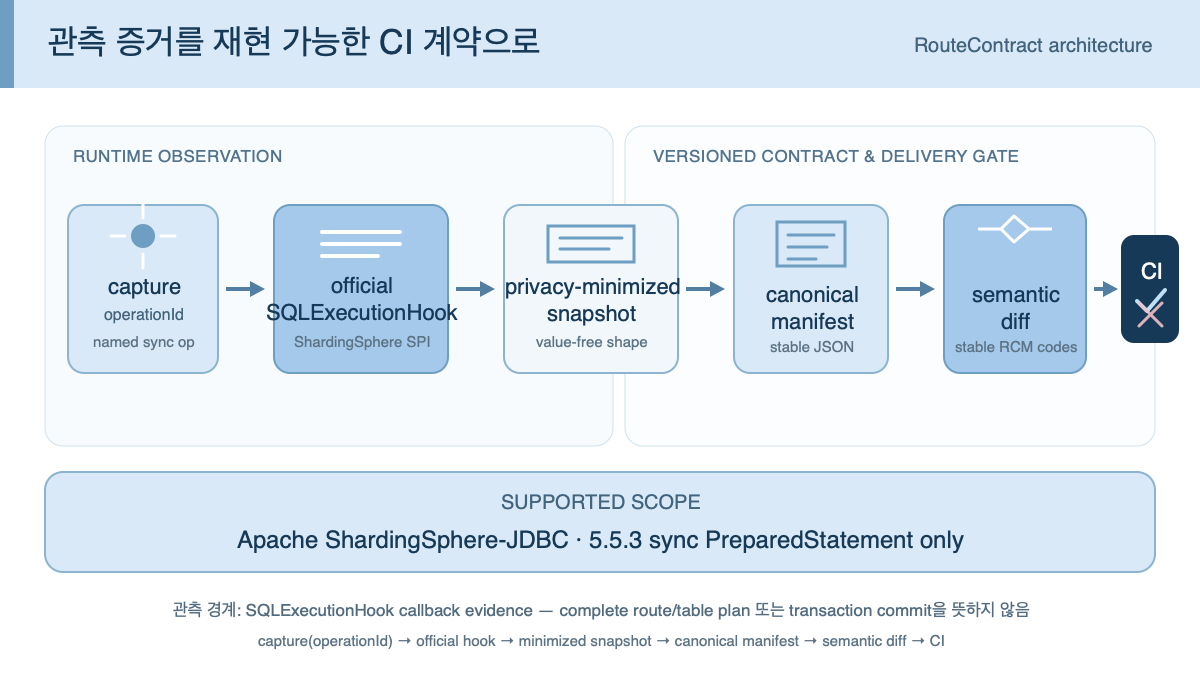
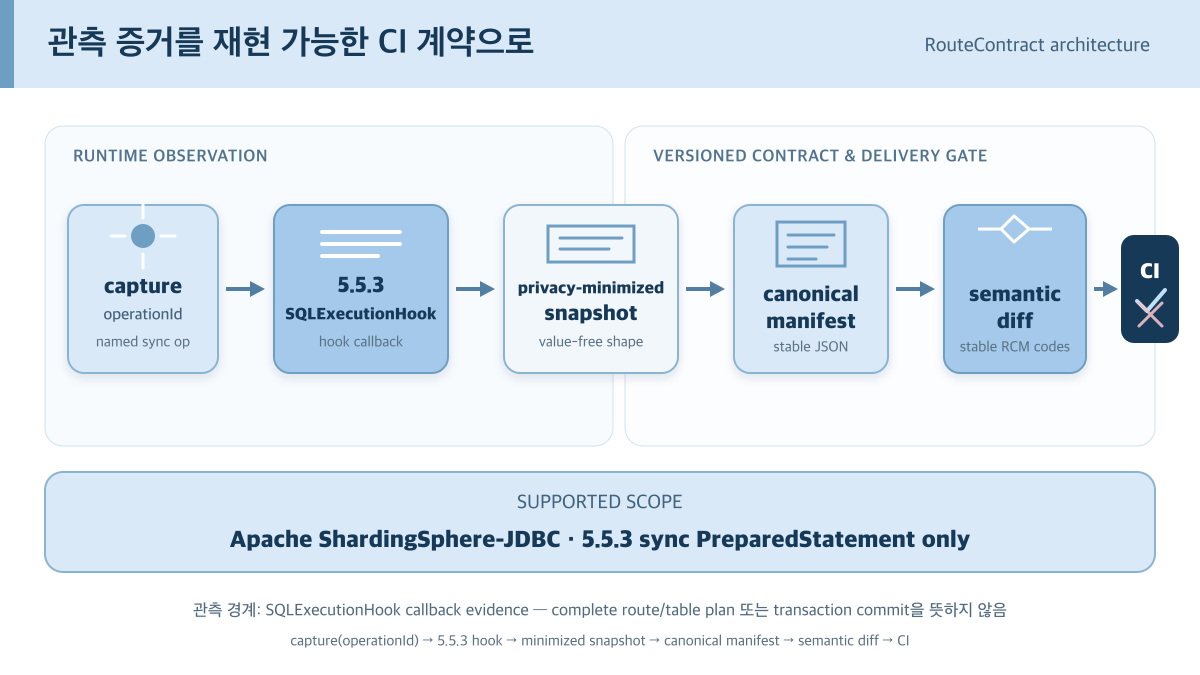
docs: correct report evidence boundaries

diff --git a/docs/evidence-matrix.md b/docs/evidence-matrix.md
@@ -80,7 +80,7 @@ The orientation allocates six points to each item. The table maps what a reviewe
 
 ## Mandatory submission ledger
 
-The public contest page lists result report, source code and a demonstration video of up to three minutes for the August 27 submission ([official schedule](https://www.oss.kr/pages/2)). The organizer-supplied orientation adds the following controls for this submission:
+The public contest page lists result report, source code and a demonstration video of up to three minutes for the August 27 submission ([official schedule](https://www.oss.kr/pages/2)). The organizer-supplied orientation and later [official submission guide](https://osscontest.kr/notice/39) add the following controls for this submission:
 
 | Deliverable/control | Current status | Exit condition |
 |---|---|---|
@@ -89,7 +89,7 @@ The public contest page lists result report, source code and a demonstration vid
 | Public YouTube demonstration, at most 3:00 | `pending` | Duration checked after upload; URL works without login; captions and 1080p text legibility checked |
 | SBOM | `artifact-ready` | The current public revision has a digest-identified aggregate JSON/XML Actions artifact; regenerate, verify, checksum and submit it from the final public release revision. This inventory is not a security scan or legal conclusion |
 | Source archive/checksum | `pending` | Archive rebuilds, checksum recorded, no credentials or private material |
-| Deadline | active constraint | Submit before **2026-08-27 18:00 KST**; internal freeze is August 26 |
+| Deadline | active constraint | The official submission guide states **2026-08-27 18:00**; the package gate models the Korean contest cutoff as KST (+09:00). Submit by the internal 15:00 target; internal freeze is August 26 |
 
 Missing report, source or video is an exclusion risk according to the supplied orientation. Do not wait for the final hour to discover an upload, visibility or codec problem.
 

diff --git a/docs/development-plan.md b/docs/development-plan.md
@@ -2,7 +2,7 @@
 
 This is an execution plan for one student developer with substantial available time. It cannot guarantee an award. Its purpose is to maximize the amount of reviewer-verifiable evidence before the submission deadline while preventing a technically interesting but unfinished prototype.
 
-The [official contest schedule](https://www.oss.kr/pages/2) requires the result report, source and a demonstration video of up to three minutes by August 27. The organizer-supplied orientation sets the exact submission cutoff used here: **2026-08-27 18:00 KST**. Internal feature freeze is one day earlier.
+The [official contest schedule](https://www.oss.kr/pages/2) and organizer orientation require the result report, source and a demonstration video of up to three minutes by August 27. The later [official submission guide](https://osscontest.kr/notice/39) sets the exact cutoff at **2026-08-27 18:00**; the package gate models this Korean contest cutoff as KST (+09:00). Internal feature freeze is one day earlier.
 
 ## Outcome and scope freeze
 

diff --git a/submission/video-storyboard.md b/submission/video-storyboard.md
@@ -75,7 +75,7 @@ RouteAssertions.assertThat(snapshot)
 아래 구조는 작은 오버레이로 표시한다.
 
 ```text
-capture → official SQLExecutionHook → minimized snapshot
+capture → ShardingSphere-JDBC 5.5.3 SQLExecutionHook → minimized snapshot
         → canonical manifest → semantic diff → CI assertion
 ```
 
